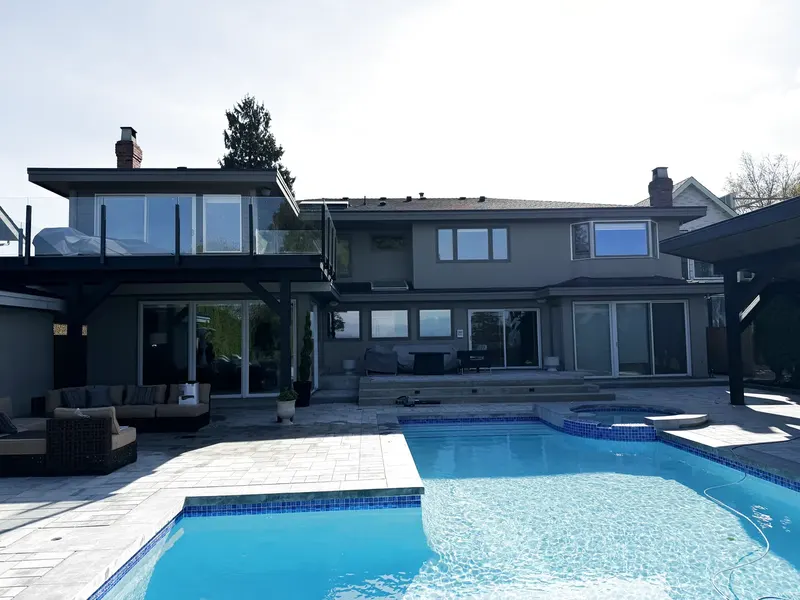
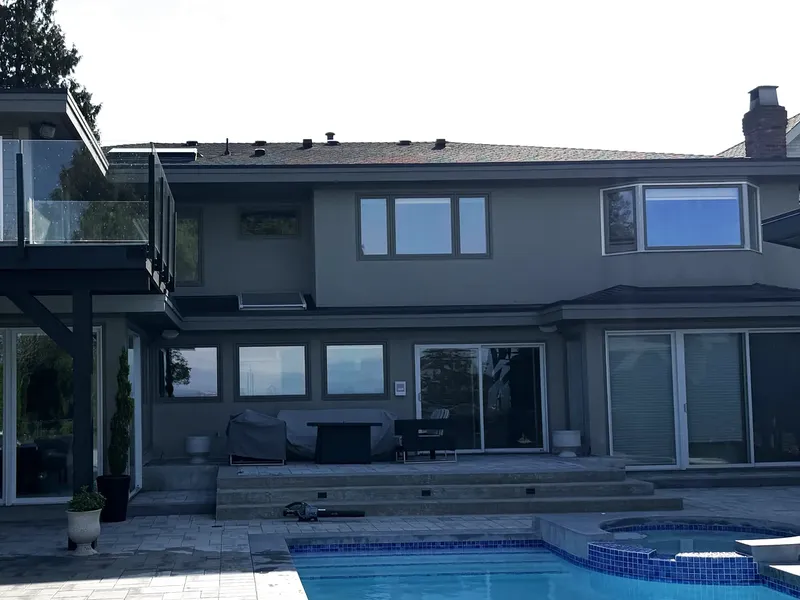
Homepage reviews = Sheila / Marlene / Kathy; Amanda pair cropped closer
Review excerpts chosen for what survives truncation: price objection,
estimate quality, timeline-and-no-surprises. Amanda's before AND after
both re-cropped to the same tighter framing so the house fills the
frame on the homepage and Our Work.

diff --git a/index.html b/index.html
@@ -674,7 +674,7 @@ section.dark-band .step::after{background:rgba(255,255,255,.18)}
       <div class="rev">
         <div><span class="stars-row"><svg class="ic" width="14" height="14"><use href="#ic-star"/></svg><svg class="ic" width="14" height="14"><use href="#ic-star"/></svg><svg class="ic" width="14" height="14"><use href="#ic-star"/></svg><svg class="ic" width="14" height="14"><use href="#ic-star"/></svg><svg class="ic" width="14" height="14"><use href="#ic-star"/></svg></span></div>
         <div class="praised">On the estimate</div>
-        <p>"The level of professionalism dealing with Jared was 5/5. He was respectful, punctual and did an extremely thorough estimate&hellip;"</p>
+        <p>"He was respectful, punctual and did an extremely thorough estimate complete with photos&hellip; His service inspires confidence from the start knowing you are dealing with a reputable company."</p>
         <div class="who">Marlene K.</div>
         <div class="where"><svg class="ic gmark" width="16" height="16"><use href="#ic-google"/></svg>Google review</div>
       </div>
@@ -687,9 +687,9 @@ section.dark-band .step::after{background:rgba(255,255,255,.18)}
       </div>
       <div class="rev">
         <div><span class="stars-row"><svg class="ic" width="14" height="14"><use href="#ic-star"/></svg><svg class="ic" width="14" height="14"><use href="#ic-star"/></svg><svg class="ic" width="14" height="14"><use href="#ic-star"/></svg><svg class="ic" width="14" height="14"><use href="#ic-star"/></svg><svg class="ic" width="14" height="14"><use href="#ic-star"/></svg></span></div>
-        <div class="praised">On the crew and the cleanup</div>
-        <p>"The crew and management were very professional. The workspace was kept clean and every thing was put back in place&hellip;"</p>
-        <div class="who">Mumtaz N.</div>
+        <div class="praised">On timeline and surprises</div>
+        <p>"Great communication and updates throughout the project&hellip; All work completed on our agreed time line with no bad surprises."</p>
+        <div class="who">Kathy D.</div>
         <div class="where"><svg class="ic gmark" width="16" height="16"><use href="#ic-google"/></svg>Google review</div>
       </div>
     </div>

diff --git a/src/pages/index.html b/src/pages/index.html
@@ -103,7 +103,7 @@
       <div class="rev">
         <div><span class="stars-row"><svg class="ic" width="14" height="14"><use href="#ic-star"/></svg><svg class="ic" width="14" height="14"><use href="#ic-star"/></svg><svg class="ic" width="14" height="14"><use href="#ic-star"/></svg><svg class="ic" width="14" height="14"><use href="#ic-star"/></svg><svg class="ic" width="14" height="14"><use href="#ic-star"/></svg></span></div>
         <div class="praised">On the estimate</div>
-        <p>"The level of professionalism dealing with Jared was 5/5. He was respectful, punctual and did an extremely thorough estimate&hellip;"</p>
+        <p>"He was respectful, punctual and did an extremely thorough estimate complete with photos&hellip; His service inspires confidence from the start knowing you are dealing with a reputable company."</p>
         <div class="who">Marlene K.</div>
         <div class="where"><svg class="ic gmark" width="16" height="16"><use href="#ic-google"/></svg>Google review</div>
       </div>
@@ -116,9 +116,9 @@
       </div>
       <div class="rev">
         <div><span class="stars-row"><svg class="ic" width="14" height="14"><use href="#ic-star"/></svg><svg class="ic" width="14" height="14"><use href="#ic-star"/></svg><svg class="ic" width="14" height="14"><use href="#ic-star"/></svg><svg class="ic" width="14" height="14"><use href="#ic-star"/></svg><svg class="ic" width="14" height="14"><use href="#ic-star"/></svg></span></div>
-        <div class="praised">On the crew and the cleanup</div>
-        <p>"The crew and management were very professional. The workspace was kept clean and every thing was put back in place&hellip;"</p>
-        <div class="who">Mumtaz N.</div>
+        <div class="praised">On timeline and surprises</div>
+        <p>"Great communication and updates throughout the project&hellip; All work completed on our agreed time line with no bad surprises."</p>
+        <div class="who">Kathy D.</div>
         <div class="where"><svg class="ic gmark" width="16" height="16"><use href="#ic-google"/></svg>Google review</div>
       </div>
     </div>
